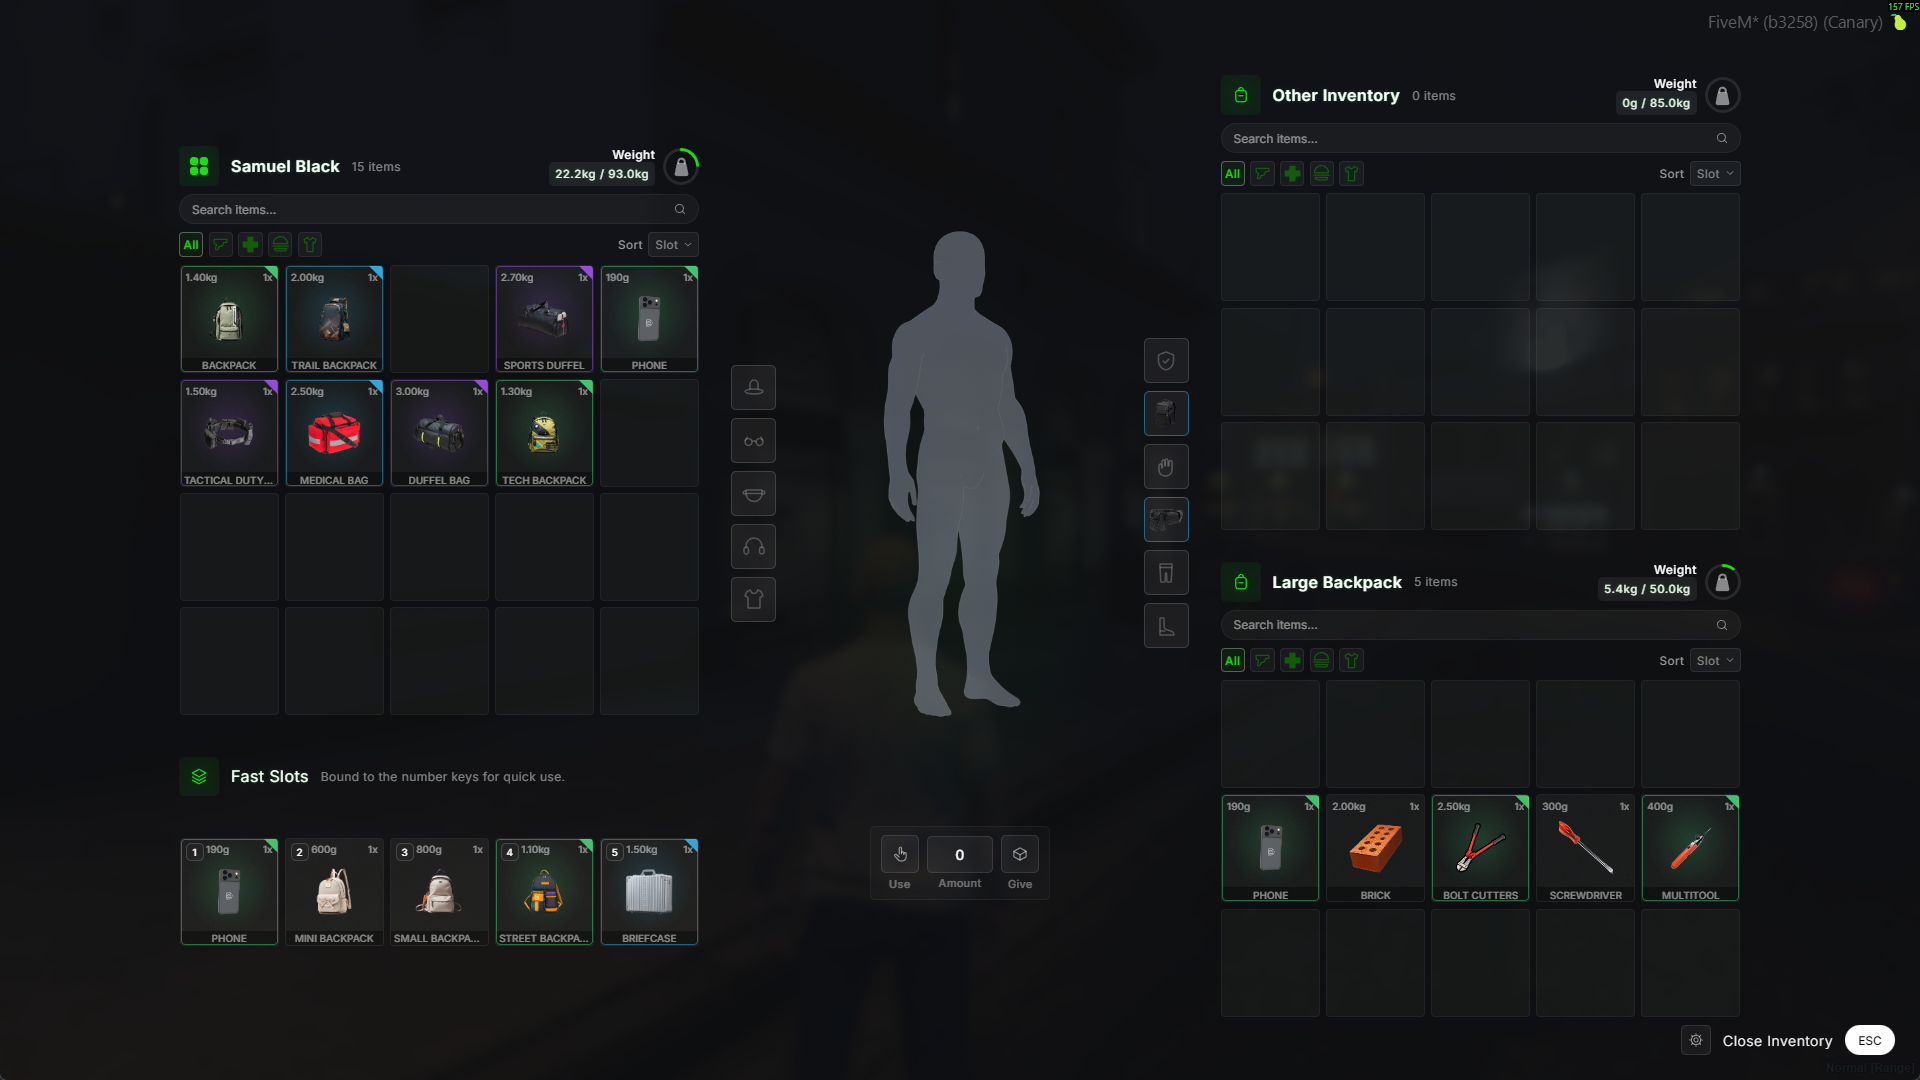
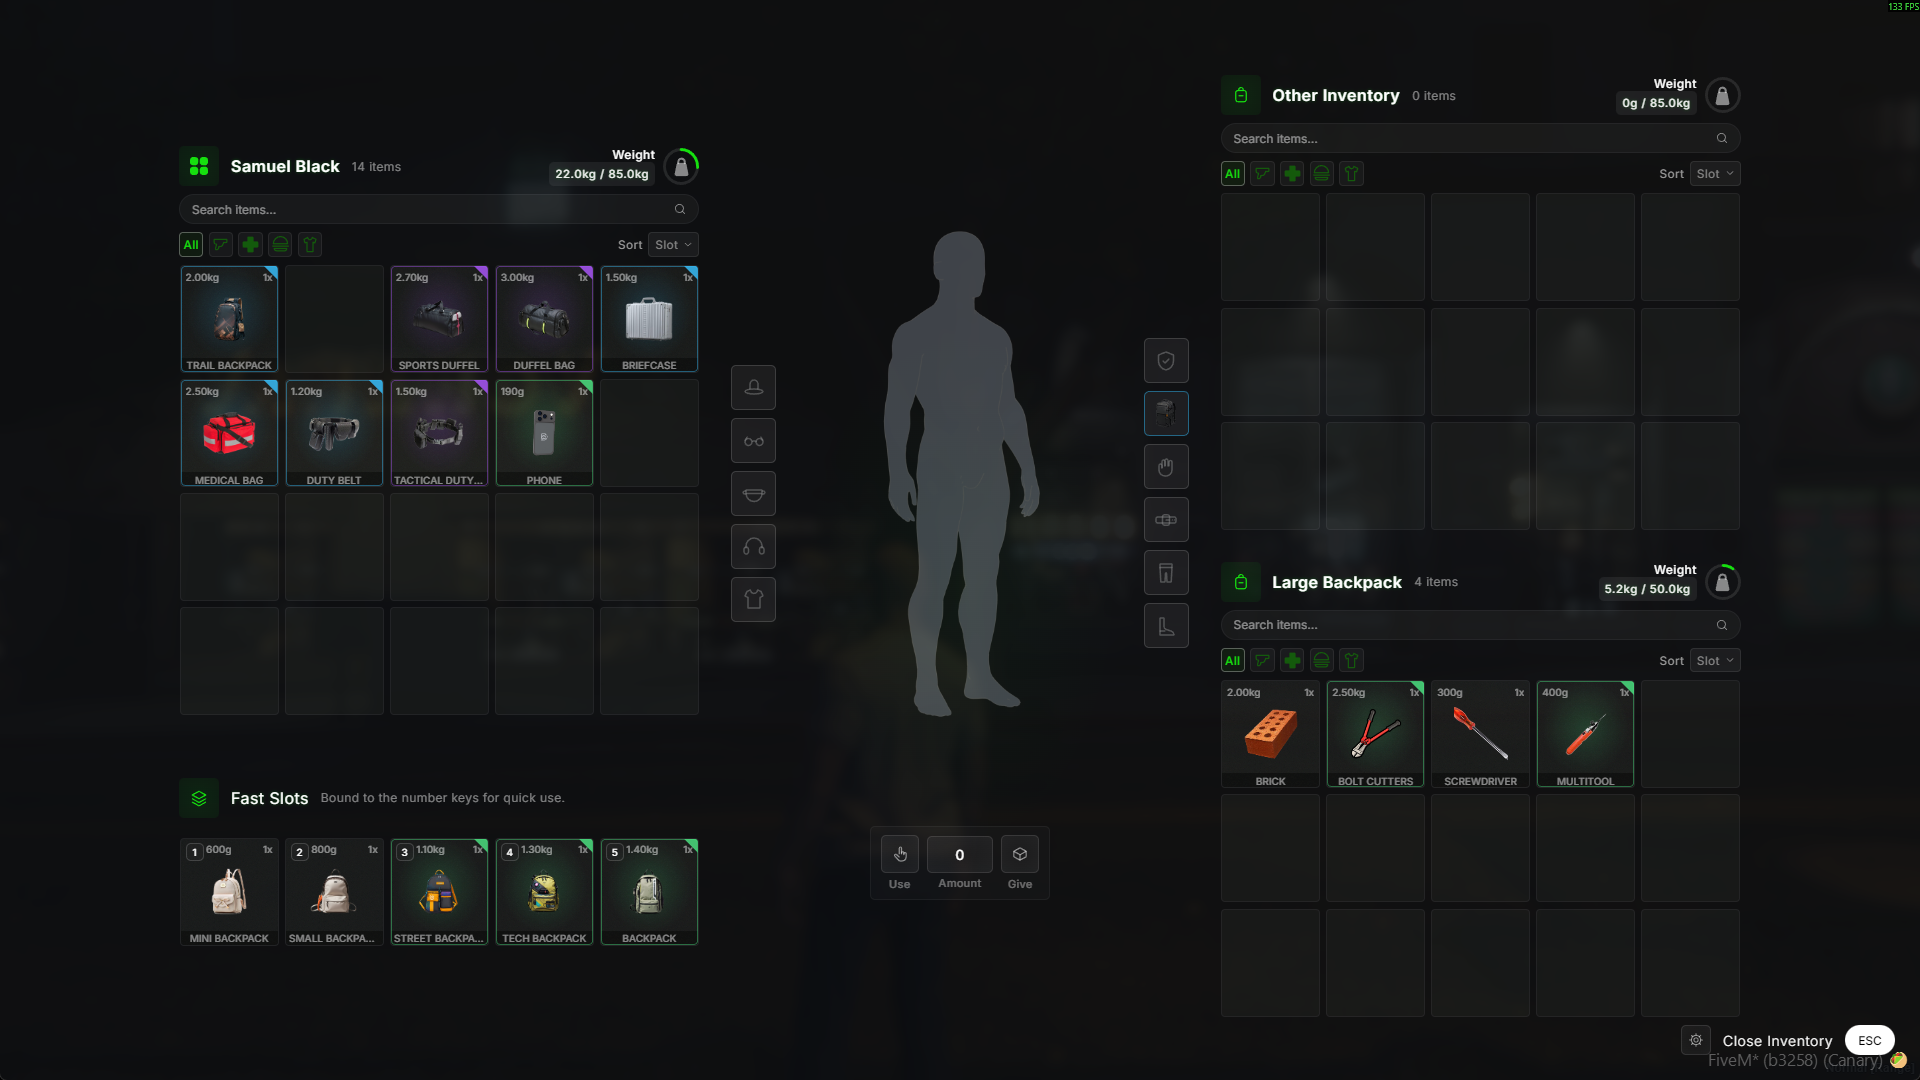
docs: refresh preview screenshots and default to slots

diff --git a/README.md b/README.md
@@ -56,10 +56,10 @@ Everything below lives in **`data/ui.lua`**.
 ### Layout
 
 ```lua
-layout = 'grid',   -- 'slots' | 'grid'
+layout = 'slots',   -- 'slots' | 'grid'
 ```
 
-Pick one or the other. **This fork ships with `grid`.** Set it to `slots` if you want the classic inventory.
+Pick one or the other. **This fork ships with `slots`.** Change it to `grid` for the Tarkov style inventory.
 
 - `slots` is the classic inventory. Every item takes exactly one square, whether it is a rifle or a sandwich.
 - `grid` is a Tarkov style inventory. Items take up room based on their size, and players can rotate them with <kbd>R</kbd> to make things fit.
